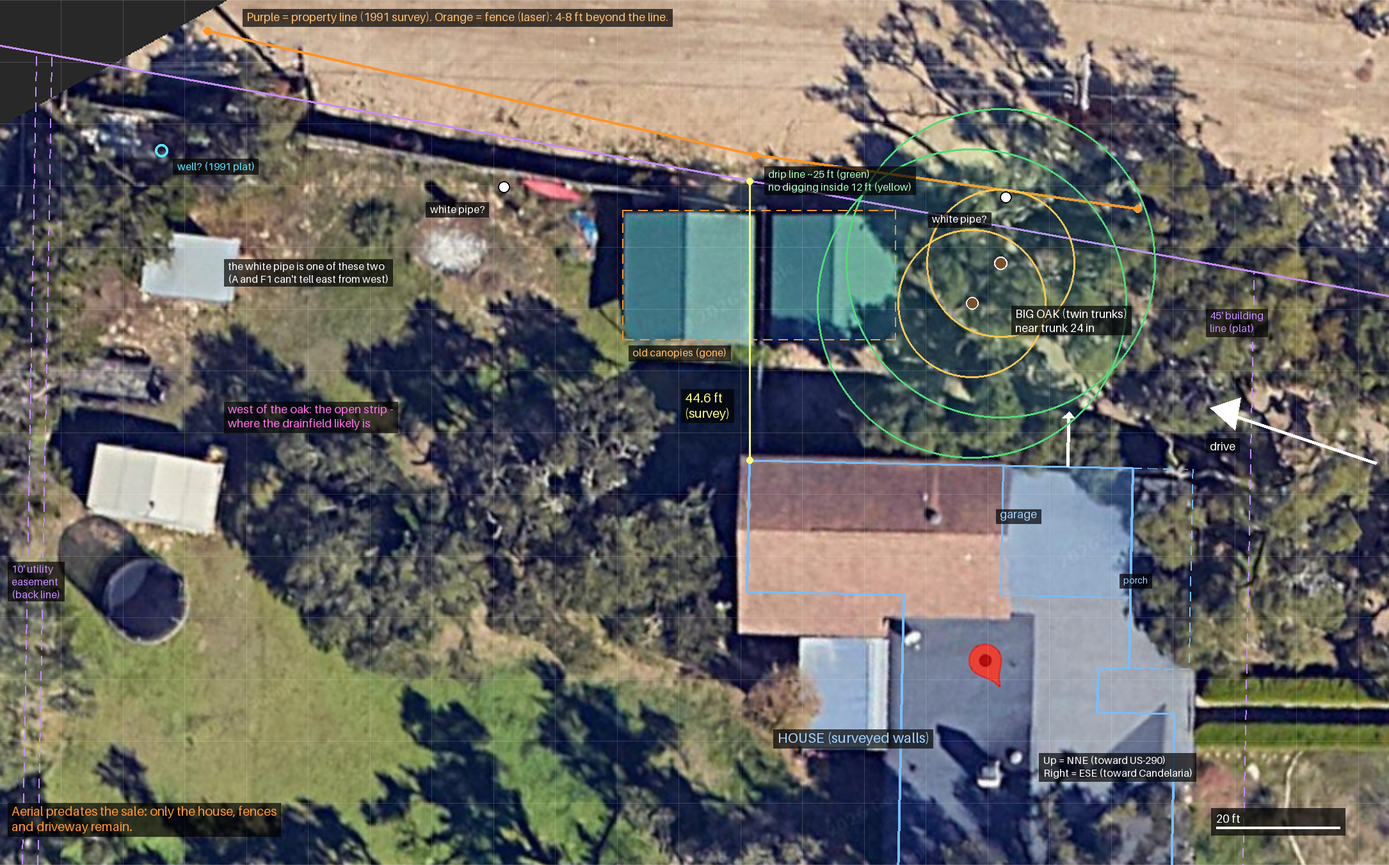
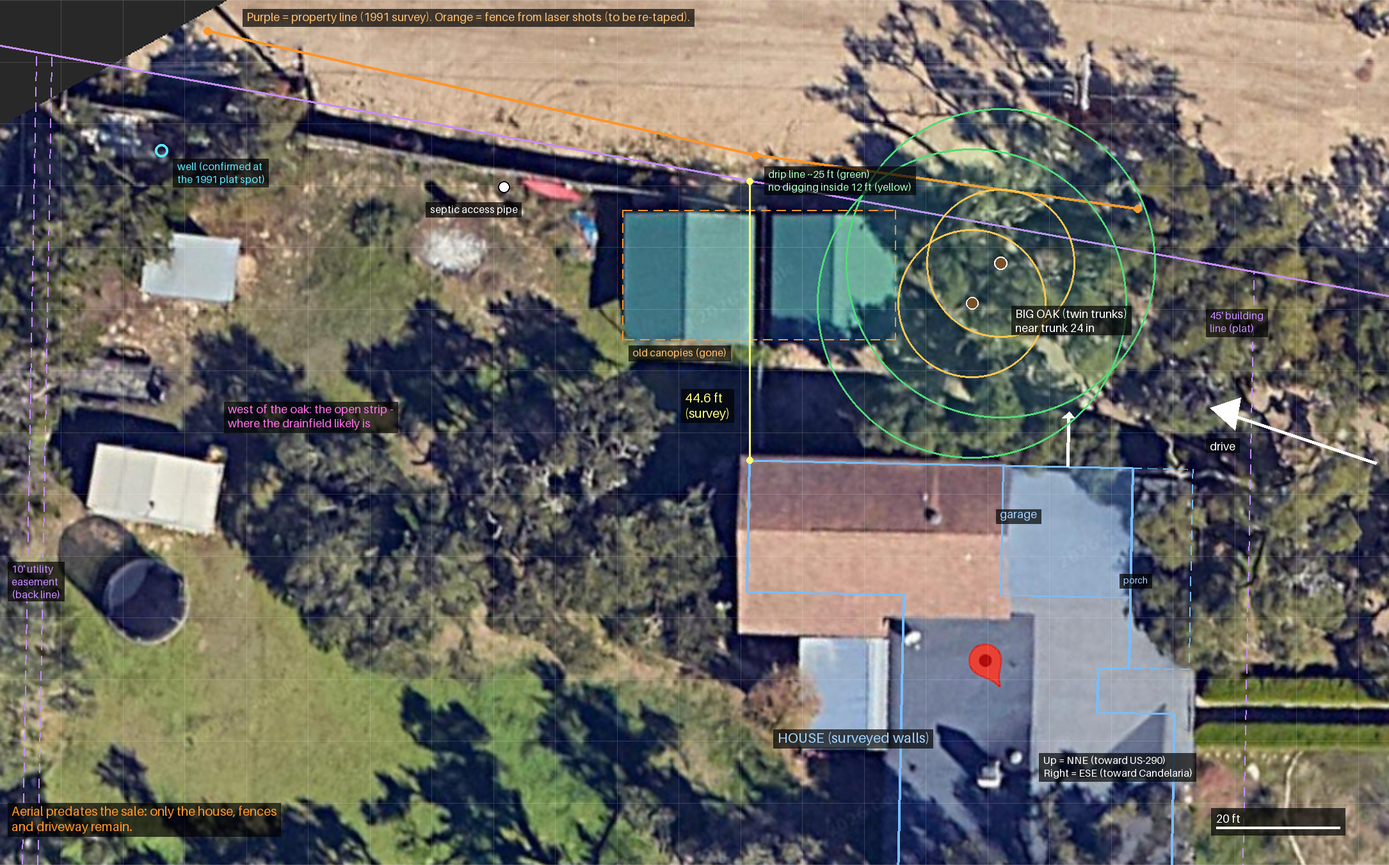
Confirm septic access pipe and well; mark fence readings provisional
Owner confirmed the plotted well (1991 plat spot) and septic access pipe
(taken as the west mirror solution, in the open strip). The fence shots
don't line up and will be re-taped with a 100 ft tape, so the fence is
labeled provisional; notes add a 6-8-10 squaring method for the tape.

Claude-Session: https://claude.ai/code/session_018cHe8XhgQq9yhHiRQpWsrY

diff --git a/tools/site_plan.py b/tools/site_plan.py
@@ -278,10 +278,10 @@ def main() -> None:
 
     draw_survey(plan)
     fp = draw_field(plan)
-    plan.label(100, 96.5, "Purple = property line (1991 survey). Orange = fence (laser): 4-8 ft beyond the line.", fill=(255, 190, 110), size=18)
+    plan.label(100, 96.5, "Purple = property line (1991 survey). Orange = fence from laser shots (to be re-taped).", fill=(255, 190, 110), size=18)
 
     well = en_to_site(WELL)
-    plan.label(well[0] + 2.5, well[1] + 1.5, "well? (1991 plat)", fill=CYAN, size=16)
+    plan.label(well[0] + 2.5, well[1] + 1.5, "well (confirmed at\nthe 1991 plat spot)", fill=CYAN, size=16)
     plan.label(62, 186, "10' utility\neasement\n(back line)", fill=PURPLE, size=16)
 
     plan.poly([(161, 129), (205, 129), (205, 150), (161, 150)], ORANGE, width=2, dash=True)
@@ -294,7 +294,7 @@ def main() -> None:
     pipes = fp.get("white_pipe", {}).get("solutions", [])
     for i, sol in enumerate(pipes):
         x, y = sol["site"]
-        plan.label(x - 12, y + 2.5, "white pipe?" if len(pipes) > 1 else "white pipe", fill=WHITE, size=16)
+        plan.label(x - 12, y + 2.5, "white pipe?" if len(pipes) > 1 else "septic access pipe", fill=WHITE, size=16)
     if len(pipes) > 1:
         plan.label(97, 137, "the white pipe is one of these two\n(A and F1 can't tell east from west)", fill=WHITE, size=16)
 

diff --git a/tools/solve_field.py b/tools/solve_field.py
@@ -29,7 +29,8 @@ FIELD_REF = {"a": "A", "b": "B", "c": "C", "f": "F1"}
 # side: "north" keeps v > 0, "west"/"east" pick the sign of u, None reports both mirror images.
 TARGETS = {
     "big_oak": {"shot": "s09", "girth": ("s11", "g"), "side": "north"},
-    "white_pipe": {"shot": "s13p", "side": None},
+    # Owner confirmed the septic access pipe is at the plotted spot: the west one, in the open strip.
+    "white_pipe": {"shot": "s13p", "side": "west"},
 }
 # The big oak has twin trunks ~8 ft apart (owner). Shots 9-10 went to the trunk nearer the
 # house; the second trunk's offset (u, v) is read off the owner's sketch, so treat it as +/-2 ft.

diff --git a/site/notes.md b/site/notes.md
@@ -168,13 +168,24 @@ How it lines up with what we've seen:
     digging at all within ~12 ft of the trunk.
   - **The shed belongs west of the drip line**, about 10 ft east of A at most.
 
-## White pipe (13p), half-located
+## Septic access pipe and well (owner confirmed, Oct 11 2026)
 
-- It's 59.5 ft from A and 41.1 ft from F1, which puts it 43.4 ft out from the house wall.
-  Because A and F1 sit on the same line, that fits two mirror spots: 40.7 ft **west** of
-  A, in the open strip, or 40.7 ft **east**, under the oak by the fence. One more shot
-  from B or C settles it. A gravity system's tank sits near the house, so a 4-in capped
-  pipe this far out is most likely a **drainfield inspection port**.
+- **The white pipe is the septic access pipe.** It sits at the plotted west spot, in the
+  open strip: **40.7 ft west of A along the wall line and 43.4 ft out from the house.**
+  (The owner confirmed the location. Of the two mirror solutions, it's taken as the west
+  one, on open grass.)
+- **The well is where the 1991 plat shows it**, near the NW corner (~28 ft in from the
+  back line, ~12 ft from the US-290 line).
+
+## Fence readings: to be redone with a tape
+
+- The laser shots to the fence (3–6) don't line up straight, so some are off. The owner
+  will re-tape them with a 100 ft tape and trace the fence on the overhead image.
+- Until then, "fence 4–8 ft beyond the surveyed line" is provisional. Either way, design
+  to the surveyed line.
+- **Squaring off the wall with a tape:** mark 6 ft along the wall from the corner and 8 ft
+  out, and adjust until the diagonal between those marks reads 10 ft (the 3-4-5 rule,
+  doubled). Sight the long tape along that 8 ft leg.
 
 ## Goal
 
